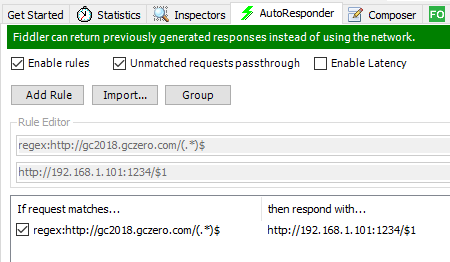
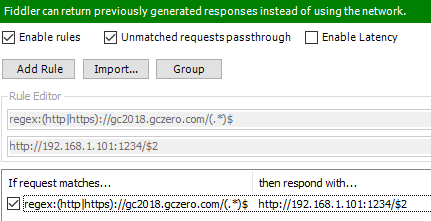
Update README.md

diff --git a/README.md b/README.md
@@ -4,46 +4,44 @@ GC2 Song Unlocker
 # Build
 Download the repo and run `build.bat`  
 
-# How to use it (Android)?
-1. Download GC2Toolkit.exe from [release page](https://github.com/rogeraabbccdd/GC2Toolkit/releases).
-2. Download [Fiddler](https://www.telerik.com/fiddler).
-3. Setting up Fiddler.
-    1. Open Fiddler and select `Tools -> Options`
-    2. Choose the `HTTPS` tab
-    3. Check `Capture HTTPS CONNECTs`
-    4. Uncheck `Decrypt HTTPS traffic`
-    5. Choose the `Connections` tab
-    6. Select the `Allow remote computers to connect` checkbox to enable the setting
-    7. Restart Fiddler in order the changes to take effect  
+# How to use it?
+## Download tools
+- Download GC2Toolkit.exe from [release page](https://github.com/rogeraabbccdd/GC2Toolkit/releases).
+- Download [Fiddler](https://www.telerik.com/fiddler).
 
-  ![Fiddler](screenshots/fiddler1.png)
+## Setting up GC2toolkit.
+- It will unlock 600 songs and 150 avatars by default.
+- Available commands
+  - `help`: Display available commands.
+  - `exit`: Exit this tool.
+  - `reset`: Reset login timer to Day 1.
+  - `set`: Set login timer to day you want.
+  - `clear`: Clear screen.
+  - `songcount`: Set song slot to be inserted (Default:600)
+  - `avatercount`: Set avater slot to be inserted (Default:150)
+  - `default`: Restore to default settings.
 
-4. Setting up mobile device
-    1. Make sure your computer and mobile device are on the same WiFi network.
-    2. Edit your current WiFi settings of mobile device.
-    3. Choose `Manual` from the `Proxy` dropdown list
-    4. Type your IP address in the Proxy host name field
-    5. Type the Fiddler listening port (`8888` by default) in the `Proxy port` field
-    6. Click `Save` to apply changes
-  
-  ![wifi proxy](screenshots/wifiproxy.jpg)
+## Setting up Fiddler.
+- If your device is Android, please follow instructions [here](https://www.telerik.com/blogs/how-to-capture-android-traffic-with-fiddler).
+- If your device is iOS, please follow instructions [here](https://docs.telerik.com/fiddler/Configure-Fiddler/Tasks/ConfigureForiOS)
 
-5. Setting up AutoResponder
-    1. Go to `AutoResponder` tab in Fiddler
-    2. Click `Add Rule`
-    3. Add the following text to your rule
-      ```
-      regex:http://gc2018.gczero.com/(.*)$
-      http://YOUR_IP:1234/$1
-      ```
-    4. Click `Save`
-    5. Check `Enable rules`
-    6. Check `Unmatched requests passthrough` to prevent Fiddler block your other network requests.
+## Setting up AutoResponder
+- Go to `AutoResponder` tab in Fiddler
+- Click `Add Rule`
+- Add the following text to your rule
+  ```
+  regex:(http|https)://gc2018.gczero.com/(.*)$
+  http://YOUR_PC_IP:1234/$2
+  ```
+- Click `Save`
+- Check `Enable rules`
+- Check `Unmatched requests passthrough` to prevent Fiddler block your other network requests.
 
   ![autoresponder](screenshots/autoresponder.png)
  
-6. Disable PC proxy
-    1. open `regedit.exe`
-    2. Change `HKEY_CURRENT_USER\Software\Microsoft\Windows\CurrentVersion\Internet Settings\ProxyEnable` to 0
-7. Start GC2Toolkit.exe.
-8. Satrt your game on mobile device.
+## Disable PC proxy
+- Open `regedit.exe`
+- Change `HKEY_CURRENT_USER\Software\Microsoft\Windows\CurrentVersion\Internet Settings\ProxyEnable` to 0
+
+## Start your game
+- Satrt your game on mobile device.
